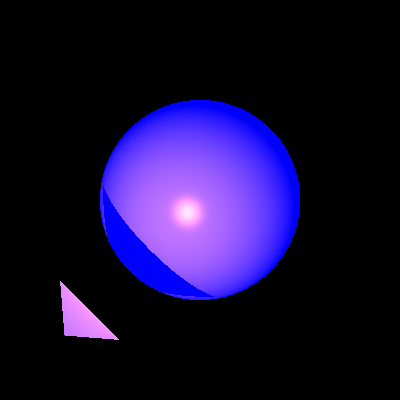
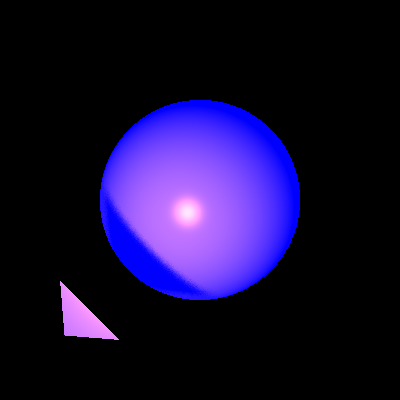
Mini project 1

Changed region(s): [[0.3, 0.54, 0.45, 0.69], [0.42, 0.69, 0.54, 0.75], [0.24, 0.48, 0.3, 0.57]]

diff --git a/src/renderer/RayTracerBasic.java b/src/renderer/RayTracerBasic.java
@@ -1,12 +1,13 @@
 package renderer;
 
+import java.util.ArrayList;
 import java.util.List;
+import java.util.concurrent.ThreadLocalRandom;
 
 import elements.LightSource;
 import geometries.Intersectable.GeoPoint;
 import primitives.Color;
 import primitives.Material;
-import primitives.Point3D;
 import primitives.Ray;
 import primitives.Util;
 import primitives.Vector;
@@ -15,6 +16,10 @@ import scene.Scene;
 public class RayTracerBasic extends RayTracerBase {
 	private static final int MAX_CALC_COLOR_LEVEL = 10;
 	private static final double MIN_CALC_COLOR_K = 0.001;
+	public static int NUM_OF_RAYS = 0;
+	public static double RADIUS = 0.1;
+
+
 
 	public RayTracerBasic(Scene scene) {
 		super(scene);
@@ -44,12 +49,12 @@ public class RayTracerBasic extends RayTracerBase {
 		return 1 == level ? color : color.add(calcGlobalEffects(point, ray, level, k));
 	}
     /**
-     * 
+     * effects the closes geometries 
      * @param geopoint
      * @param ray
      * @param level
      * @param k
-     * @return
+     * @return color of the closes geometry
      */
 	private Color calcGlobalEffects(GeoPoint geopoint, Ray ray, int level, double k) {
 		Color color = Color.BLACK;
@@ -136,27 +141,27 @@ public class RayTracerBasic extends RayTracerBase {
 		return lightIntensity.scale(nl * kd);
 	}
 
-	private boolean unshaded(Vector l, Vector n, GeoPoint geopoint, LightSource light) {
-		Vector lightDirection = l.scale(-1); // from point to light source
-		Ray lightRay = new Ray(geopoint.point, lightDirection, n);
-		List<GeoPoint> intersections = scene.geometries.findGeoIntersections(lightRay);
-		if (intersections == null)
-			return true;
-		double lightDistance = light.getDistance(geopoint.point);
-		for (GeoPoint gp : intersections) {
-			if (Util.alignZero(gp.point.distance(geopoint.point) - lightDistance) <= 0
-					&& gp.geometry.getMaterial().kT == 0)
-				return false;
-		}
-		return true;
-	}
+//	private boolean unshaded(Vector l, Vector n, GeoPoint geopoint, LightSource light) {
+//		Vector lightDirection = l.scale(-1); // from point to light source
+//		Ray lightRay = new Ray(geopoint.point, lightDirection, n);
+//		List<GeoPoint> intersections = scene.geometries.findGeoIntersections(lightRay);
+//		if (intersections == null)
+//			return true;
+//		double lightDistance = light.getDistance(geopoint.point);
+//		for (GeoPoint gp : intersections) {
+//			if (Util.alignZero(gp.point.distance(geopoint.point) - lightDistance) <= 0
+//					&& gp.geometry.getMaterial().kT == 0)
+//				return false;
+//		}
+//		return true;
+//	}
 
-	private Ray constructingReflectedRay(Vector n, Vector v, GeoPoint geopoint) {
+	private Ray constructingReflectedRay(Vector n, Vector v, GeoPoint geopoint) { //ray return back-hishtakfut
 		Vector r = v.subtract(n.scale(n.dotProduct(v) * 2));
 		return new Ray(geopoint.point, r, n);
 	}
 
-	private Ray constructingRefractedRay(Vector n, Vector v, GeoPoint geopoint) {
+	private Ray constructingRefractedRay(Vector n, Vector v, GeoPoint geopoint) { //ray pass throw the geometry-shkifut
 		return new Ray(geopoint.point, v, n);
 	}
 
@@ -171,22 +176,87 @@ public class RayTracerBasic extends RayTracerBase {
 	private Color calcColor(GeoPoint gp, Ray ray) {
 		return calcColor(gp, ray, MAX_CALC_COLOR_LEVEL, 1).add(scene.ambientLight.getIntensity());
 	}
+	/**
+	 * Calculate the new vector by a random number between radius and minus radius
+	 * @param vector
+	 * @param radius
+	 * @return new vector
+	 */
+	private static Vector randomVector(Vector vector, double radius) {
+	    double x = vector.getHead().x.coord + ThreadLocalRandom.current().nextDouble(-radius, radius);
+	    double y = vector.getHead().y.coord + ThreadLocalRandom.current().nextDouble(-radius, radius);
+	    double z = vector.getHead().z.coord + ThreadLocalRandom.current().nextDouble(-radius, radius);
+	    return new Vector(x, y, z);
+	}
+/**
+ * Creates a new ray by a starting point p0, and also receives a direction vector and radius 
+ * and calculates the random vector according to this
+ * @param ray
+ * @return list of rays
+ */
 
-	private double transparency(LightSource ls, Vector l, Vector n, GeoPoint geoPoint) {
-		Vector lightDirection = l.scale(-1); // from point to light source
-		Ray lightRay = new Ray(geoPoint.point, lightDirection, n);
-		List<GeoPoint> intersections = scene.geometries.findGeoIntersections(lightRay);
-		if (intersections == null)
-			return 1.0;
-		double ktr = 1.0;
-		double lightDistance = ls.getDistance(geoPoint.point);
-		for (GeoPoint gp : intersections) {
-			if (Util.alignZero(gp.point.distance(geoPoint.point) - lightDistance) <= 0) {
-				ktr *= gp.geometry.getMaterial().kT;
-				if (ktr < MIN_CALC_COLOR_K)
-					return 0.0;
-			}
-		}
-		return ktr;
+	public static List<Ray> splitRay(Ray ray) {
+	    List<Ray> result = new ArrayList<>();
+	    result.add(ray);
+	    for (int i = 0; i < NUM_OF_RAYS; i++) {
+	        result.add(new Ray(ray.getP0(), randomVector(ray.getDir(), RADIUS)));
+	    }
+	    return result;
+	}
+
+//	private double transparency(LightSource ls, Vector l, Vector n, GeoPoint geoPoint) {
+//		Vector lightDirection = l.scale(-1); // from point to light source
+//		Ray lightRay = new Ray(geoPoint.point, lightDirection, n);
+//		List<GeoPoint> intersections = scene.geometries.findGeoIntersections(lightRay);
+//		if (intersections == null)
+//			return 1.0;
+//		double ktr = 1.0;
+//		double lightDistance = ls.getDistance(geoPoint.point);
+//		for (GeoPoint gp : intersections) {
+//			if (Util.alignZero(gp.point.distance(geoPoint.point) - lightDistance) <= 0) {
+//				ktr *= gp.geometry.getMaterial().kT;
+//				if (ktr < MIN_CALC_COLOR_K)
+//					return 0.0;
+//			}
+//		}
+//		return ktr;
+//	}
+	
+	private double transparency(Ray ray, GeoPoint geopoint, LightSource light) {
+	    // calculate the distance between the light source and the point
+	    double lightDistance = light.getDistance(geopoint.point);
+
+	    // check if there is geometries between the light and the point
+	    var intersections = scene.geometries.findGeoIntersections(ray);
+	    if (intersections == null) return 1.0;
+
+	    // if there is, calculate the amount of transparency of all of them
+	    double ktr = 1.0;
+	    for (GeoPoint gp : intersections) {
+	        if (Util.alignZero(gp.point.distance(geopoint.point) - lightDistance) <= 0) {
+	            ktr *= gp.geometry.getMaterial().kT;
+	            if (ktr < MIN_CALC_COLOR_K) return 0.0;
+	        }
+	    }
+	    return ktr;
+	}
+/**
+ * Calculates the main ray and sends it to splitray function that creates a list of rays 
+ * and summarizes the transparency of each ray and then returns their average to divide by the size of the list.
+ * @param light
+ * @param l
+ * @param n
+ * @param geopoint
+ * @return rays transparency average to divide by the size of the list.
+ */
+	private double transparency(LightSource light, Vector l, Vector n, GeoPoint geopoint) {
+	    Vector lightDirection = l.scale(-1);
+	    Ray lightRay = new Ray(geopoint.point, lightDirection, n);
+	    List<Ray> cone = splitRay(lightRay);
+	    double transparency = 0;
+	    for (Ray ray : cone) {
+	        transparency += transparency(ray, geopoint, light);
+	    }
+	    return Util.alignZero(transparency / cone.size());
 	}
 }

diff --git a/src/unittests/ReflectionRefractionTests.java b/src/unittests/ReflectionRefractionTests.java
@@ -126,6 +126,8 @@ public class ReflectionRefractionTests {
     }
     @Test
     public void jctLogo() {
+    	RayTracerBasic.RADIUS=0.01;
+    	RayTracerBasic.NUM_OF_RAYS=0;
         Camera camera = new Camera(new Point3D(0, 0, 1000), new Vector(0, 0, -1), new Vector(0, 1, 0)) //
                 .setViewPlaneSize(200, 200).setDistance(1000);
 
@@ -156,7 +158,7 @@ public class ReflectionRefractionTests {
 
         scene.lights.add(new SpotLight(new Color(700, 400, 400), new Point3D(60, 50, 0), new Vector(0, 0, -1), 1, 4E-5, 2E-7));
         scene.lights.add(new SpotLight(new Color(700, 400, 400), new Point3D(-370, -100,-3500), new Vector(0, 0, -1), 1, 0.00002, 0.00005));
-        scene.lights.add(new PointLight(new Color(700, 400, 400), new Point3D(0, 100, -4000), 1, 4E-5, 2E-7)); //main light
+        scene.lights.add(new PointLight(new Color(700, 400, 400), new Point3D(0, 1000, -12000), 1, 4E-5, 2E-7)); //main light
         //scene.lights.add(new SpotLight(new Color(700, 400, 400), new Point3D(-370, -100,-3500), new Vector(0, 0, -1), 1, 0.00002, 0.00005));
 
 
@@ -171,4 +173,82 @@ public class ReflectionRefractionTests {
    
 
     }
+    
+    @Test
+    public void test1() {
+        Scene scene = new Scene("Tst soft shadow");
+        Sphere sphere = new Sphere(new Point3D(0.0, 0, -5000), 350);
+        sphere.setMaterial(new Material().setkD(1).setkS(1).setnShininess(20));
+        sphere.setEmmission(new Color(0, 0, 100));
+        scene.geometries.add(sphere);
+
+        sphere = new Sphere(new Point3D(-800, 0, -5000), 350);
+        sphere.setEmmission(new Color(100, 0, 5));
+        scene.geometries.add(sphere);
+
+        sphere = new Sphere(new Point3D(800, 0, -5000), 350);
+        sphere.setEmmission(new Color(28, 100, 0));
+        scene.geometries.add(sphere);
+
+
+        scene.lights.add(new SpotLight(new Color(17, 17, 17), new Point3D(0, 1000, -4500), new Vector(-2, -2, -3), 0, 0.000001, 0.0000005));
+
+        Plane plane = new Plane(new Point3D(0, -400, 0), new Vector(0, 1, 0));
+        plane.setEmmission(new Color(0, 0, 0));
+        plane.setMaterial(new Material().setkR(0.4).setkS(0));
+        scene.geometries.add(plane);
+
+            scene.lights.add(new SpotLight(new Color(171, 171, 171), new Point3D(0, 1000, -4000), new Vector(-2, -2, -3), 0, 0.000001, 0.0000005));
+
+            ImageWriter imageWriter = new ImageWriter("soft shadow", 500, 500);
+
+
+            Render render = new Render() //
+                    .setImageWriter(imageWriter) //
+                    .setCamera((new Camera(new Point3D(0, 0, 1000), new Vector(-1, 0, 0), new Vector(0, 0, -1)).setDistance(1000).setViewPlaneSize(500, 500))) //
+                    .setRayTracerBase(new RayTracerBasic(scene));
+
+            render.renderImage();
+            render.writeToImage();
+
+    }
+    @Test
+    public void softShadow() {
+    	RayTracerBasic.RADIUS=0.03;
+    	RayTracerBasic.NUM_OF_RAYS=50;
+        Camera camera = new Camera(new Point3D(0, 0, 1000), new Vector(0, 0, -1), new Vector(0, 1, 0)) //
+                .setViewPlaneSize(200, 200).setDistance(1000);
+
+        double pos1 = 50, pos2 = -35;
+
+        scene.geometries.add(
+
+                new Sphere(new Point3D(50, pos2 + 30, 0), 30)
+                        .setEmmission(new Color(java.awt.Color.BLUE))
+                        .setMaterial(new Material().setkD(0.8).setkS(1).setkR(0.2).setnShininess(30)),
+                new Sphere(new Point3D(-50, pos2+10, 0), 10)
+                        .setEmmission(new Color(java.awt.Color.RED))
+                        .setMaterial(new Material().setkD(0.8).setkS(1).setkR(0.2).setnShininess(30)),
+                new Sphere(new Point3D(-10, pos2 + 20, 0), 20)
+                        .setEmmission(new Color(0, 100, 0))
+                        .setMaterial(new Material().setkD(0.8).setkS(1).setkR(0.2).setnShininess(30)),
+
+                new Plane(new Point3D(0, pos2, -50), new Vector(0, 1, 0))
+                        .setEmmission(new Color(50, 50, 50))
+                        .setMaterial(new Material().setkD(0.2).setkS(0.2).setnShininess(30).setkR(0.2))
+        );
+
+        scene.lights.add(new PointLight(new Color(300, 300, 300), new Point3D(0, pos1, -200), 1, 0.00005, 0.000005));
+
+        ImageWriter imageWriter = new ImageWriter("temp", 600, 600);
+        Render render = new Render()
+                .setImageWriter(imageWriter)
+                .setCamera(camera)
+                .setRayTracerBase(new RayTracerBasic(scene));
+
+        render.renderImage();
+        render.writeToImage();
+    }
+
+
 }

diff --git a/src/unittests/ShadowTests.java b/src/unittests/ShadowTests.java
@@ -13,6 +13,7 @@ import scene.Scene;
  *
  * @author Dan
  */
+
 public class ShadowTests {
     private Scene scene = new Scene("Test scene");
     private Camera camera = new Camera(new Point3D(0, 0, 1000), new Vector(0, 0, -1), new Vector(0, 1, 0)) //
@@ -23,6 +24,7 @@ public class ShadowTests {
      */
     @Test
     public void sphereTriangleInitial() {
+    	RayTracerBasic.RADIUS=0.05;
         scene.geometries.add( //
                 new Sphere(new Point3D(0, 0, -200), 60) //
                         .setEmmission(new Color(java.awt.Color.BLUE)) //
@@ -48,6 +50,7 @@ public class ShadowTests {
      */
     @Test
     public void sphereTriangleChangingTriangle1() {
+    	RayTracerBasic.RADIUS=0.1;
         scene.geometries.add( //
                 new Sphere(new Point3D(0, 0, -200), 60) //
                         .setEmmission(new Color(java.awt.Color.BLUE)) //
@@ -73,6 +76,7 @@ public class ShadowTests {
      */
     @Test
     public void sphereTriangleChangingTriangle2() {
+    	RayTracerBasic.RADIUS=0.01;
         scene.geometries.add( //
                 new Sphere(new Point3D(0, 0, -200), 60) //
                         .setEmmission(new Color(java.awt.Color.BLUE)) //
@@ -98,6 +102,7 @@ public class ShadowTests {
      */
     @Test
     public void sphereTriangleChangingLight1() {
+    	RayTracerBasic.RADIUS=0.01;
         scene.geometries.add( //
                 new Sphere(new Point3D(0, 0, -200), 60) //
                         .setEmmission(new Color(java.awt.Color.BLUE)) //
@@ -123,6 +128,7 @@ public class ShadowTests {
      */
     @Test
     public void sphereTriangleChangingLight2() {
+    	RayTracerBasic.RADIUS=0.01;
         scene.geometries.add( //
                 new Sphere(new Point3D(0, 0, -200), 60) //
                         .setEmmission(new Color(java.awt.Color.BLUE)) //
@@ -149,6 +155,7 @@ public class ShadowTests {
      */
     @Test
     public void trianglesSphere() {
+    	RayTracerBasic.RADIUS=0.1;
         scene.setAmbientLight(new AmbientLight(new Color(java.awt.Color.WHITE), 0.15));
 
         scene.geometries.add( //

diff --git a/src/primitives/Material.java b/src/primitives/Material.java
@@ -3,11 +3,11 @@ package primitives;
 public class Material {
 	public double kD=0, kS=0, kR=0, kT=0;
 	
-	public Material setkR(double kR) {
+	public Material setkR(double kR) { //hishtakfut
 		this.kR = kR;
 		return this;
 	}
-	public Material setkT(double kT) {
+	public Material setkT(double kT) { //shkifut
 		this.kT = kT;
 		return this;
 	}

diff --git a/src/primitives/Coordinate.java b/src/primitives/Coordinate.java
@@ -15,7 +15,7 @@ public final class Coordinate {
      * Coordinate value, intentionally "package-friendly" due to performance
      * constraints
      */
-    final double coord;
+    public final double coord;
 
     /**
      * Coordinate constructor receiving a coordinate value

diff --git a/src/primitives/Point3D.java b/src/primitives/Point3D.java
@@ -1,9 +1,9 @@
 package primitives;
 
 public class Point3D {
-final Coordinate x;
-final Coordinate y;
-final Coordinate z;
+public final Coordinate x;
+public final Coordinate y;
+public final Coordinate z;
  /**
   * Defining the zero-beginning points of the axes
   */
